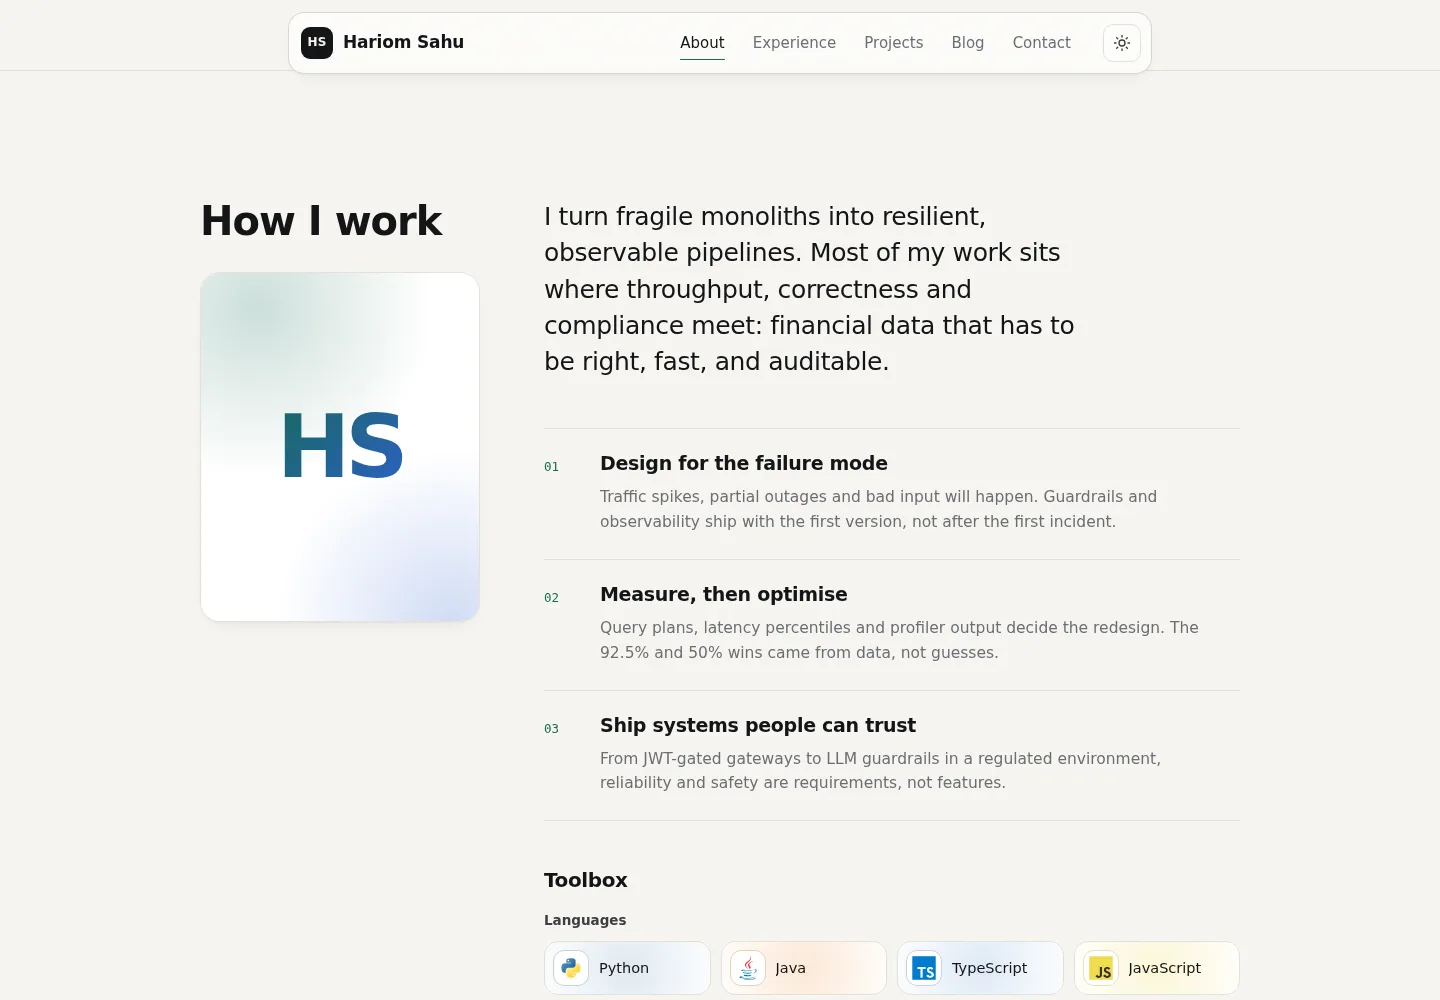
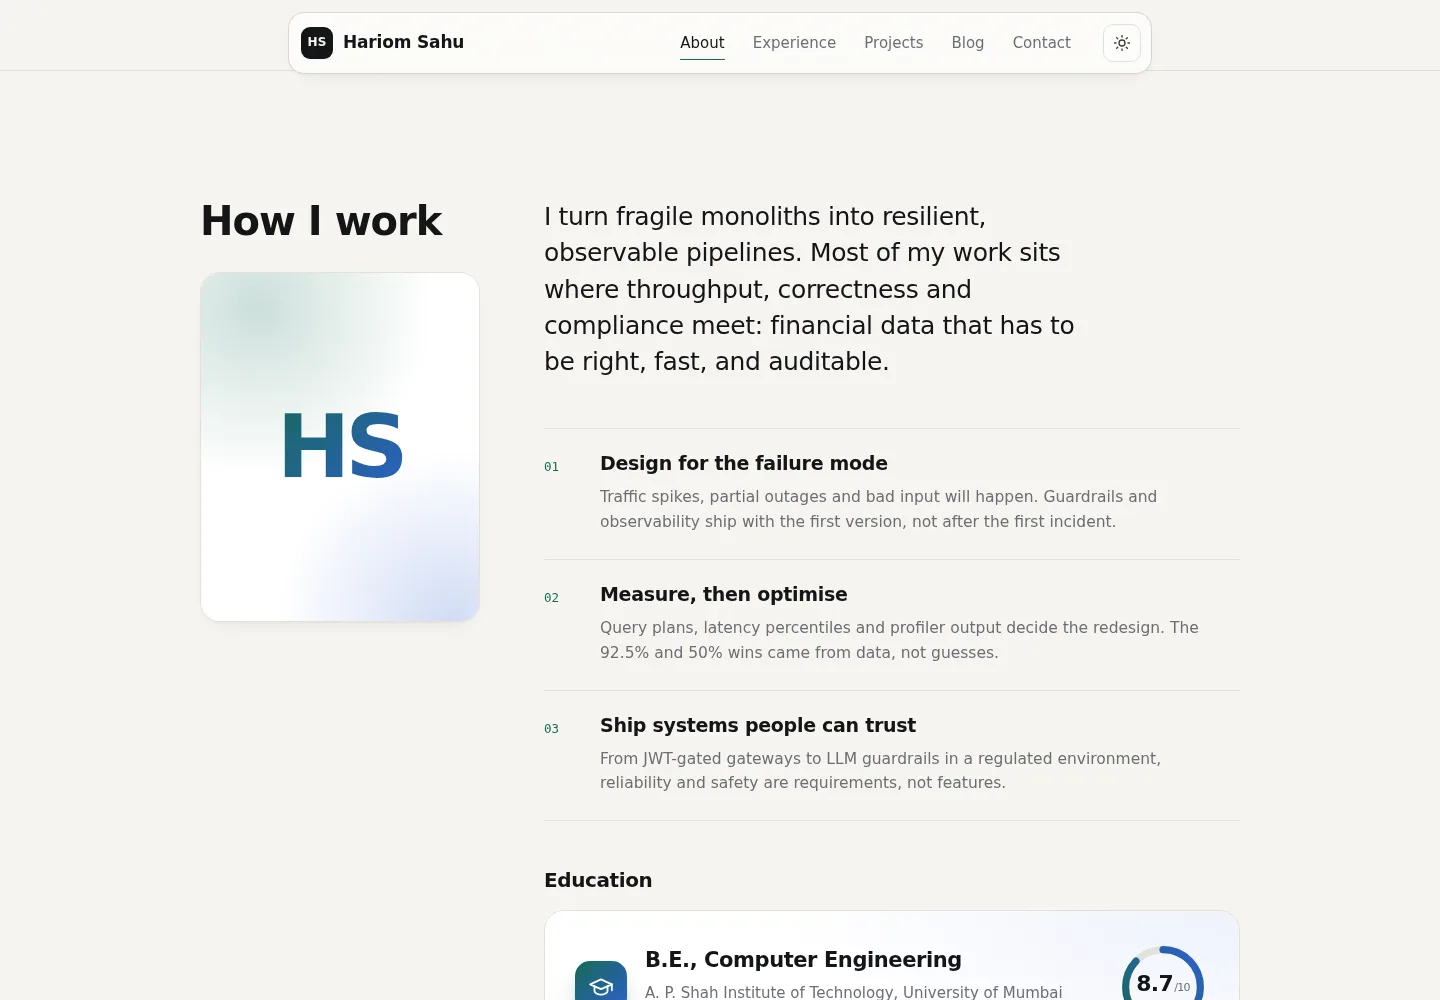
feat: animated education card with 2021-2025 timeline and CGPA ring in About

Changed region(s): [[0.375, 0.868, 0.8438, 1.0]]

diff --git a/assets/css/styles.css b/assets/css/styles.css
@@ -1201,3 +1201,149 @@ svg { width: 1em; height: 1em; fill: none; stroke: currentColor; stroke-width: 1
   .tools { grid-template-columns: repeat(2, minmax(0, 1fr)); }
 }
 .stack-title { margin-bottom: 18px; font-size: 20px; letter-spacing: -0.02em; }
+
+/* ---------- About: education ---------- */
+.edu { margin-top: 48px; }
+.edu-card {
+  position: relative;
+  padding: clamp(22px, 3vw, 30px);
+  background:
+    radial-gradient(120% 140% at 100% 0%, color-mix(in srgb, var(--accent-2) 8%, transparent), transparent 55%),
+    radial-gradient(120% 140% at 0% 100%, color-mix(in srgb, var(--accent) 8%, transparent), transparent 55%),
+    var(--surface);
+  border: 1px solid var(--line);
+  border-radius: 20px;
+  overflow: hidden;
+  transition: transform 0.4s var(--ease), box-shadow 0.4s var(--ease), border-color 0.4s var(--ease);
+}
+/* Gradient hairline border that lights up on hover */
+.edu-card::before {
+  content: "";
+  position: absolute;
+  inset: 0;
+  padding: 1px;
+  border-radius: inherit;
+  background: linear-gradient(135deg, var(--accent), var(--accent-2));
+  -webkit-mask: linear-gradient(#000 0 0) content-box, linear-gradient(#000 0 0);
+  -webkit-mask-composite: xor;
+  mask-composite: exclude;
+  opacity: 0;
+  transition: opacity 0.4s var(--ease);
+  pointer-events: none;
+}
+.edu-card:hover { transform: translateY(-3px); box-shadow: var(--shadow); }
+.edu-card:hover::before { opacity: 1; }
+
+.edu-top { display: grid; grid-template-columns: auto minmax(0, 1fr) auto; gap: 18px; align-items: center; }
+.edu-icon {
+  display: grid;
+  place-items: center;
+  width: 52px;
+  height: 52px;
+  font-size: 26px;
+  color: #fff;
+  background: linear-gradient(135deg, var(--accent), var(--accent-2));
+  border-radius: 15px;
+  box-shadow: 0 10px 22px -12px var(--accent);
+}
+.edu-icon svg { stroke: currentColor; stroke-width: 1.7; }
+.edu.is-in .edu-icon { animation: cap-toss 1s 1.9s cubic-bezier(0.3, 1.6, 0.5, 1) both; }
+@keyframes cap-toss {
+  0% { transform: translateY(0) rotate(0); }
+  40% { transform: translateY(-10px) rotate(-14deg); }
+  100% { transform: translateY(0) rotate(0); }
+}
+.edu-main h4 { margin: 0; font-size: clamp(18px, 2vw, 21px); font-weight: 600; letter-spacing: -0.02em; color: var(--ink); }
+.edu-main p { margin-top: 4px; font-size: 15px; color: var(--muted); }
+.edu-main .edu-span { font-family: var(--font-mono); font-size: 12.5px; color: var(--ink-2); }
+
+/* CGPA ring */
+.cgpa { position: relative; width: 92px; height: 92px; display: grid; place-items: center; }
+.cgpa svg { position: absolute; inset: 0; width: 100%; height: 100%; transform: rotate(-90deg); }
+.cgpa circle { fill: none; stroke-width: 5; }
+.cgpa-track { stroke: var(--line); }
+.cgpa-ring {
+  stroke-linecap: round;
+  stroke-dasharray: 163.36;
+  stroke-dashoffset: 163.36;
+  transition: stroke-dashoffset 1.6s cubic-bezier(0.2, 0.7, 0.2, 1) 0.3s;
+}
+.edu.is-in .cgpa-ring { stroke-dashoffset: 21.24; } /* 87% of the circle */
+.stop-a { stop-color: var(--accent); }
+.stop-b { stop-color: var(--accent-2); }
+.cgpa-value { position: relative; margin-top: -6px; font-size: 22px; font-weight: 700; letter-spacing: -0.03em; color: var(--ink); font-variant-numeric: tabular-nums; }
+.cgpa-value small { font-size: 11px; font-weight: 500; color: var(--muted); margin-left: 1px; }
+.cgpa-label { position: absolute; bottom: 20px; font-family: var(--font-mono); font-size: 9.5px; letter-spacing: 0.08em; color: var(--muted); }
+
+/* 2021 → 2025 timeline */
+.edu-timeline { position: relative; margin-top: 30px; padding-top: 6px; }
+.edu-track {
+  position: absolute;
+  top: 11.5px;
+  left: 7px;
+  right: 7px;
+  height: 3px;
+  border-radius: 3px;
+  background: var(--line);
+  overflow: hidden;
+}
+.edu-fill {
+  position: absolute;
+  inset: 0;
+  border-radius: inherit;
+  background: linear-gradient(90deg, var(--accent), var(--accent-2));
+  transform: scaleX(0);
+  transform-origin: left center;
+  transition: transform 1.6s cubic-bezier(0.65, 0, 0.35, 1) 0.2s;
+}
+.edu-fill::after {
+  content: "";
+  position: absolute;
+  top: 0;
+  bottom: 0;
+  width: 60px;
+  background: linear-gradient(90deg, transparent, rgba(255, 255, 255, 0.85), transparent);
+  transform: translateX(-80px);
+}
+.edu.is-in .edu-fill { transform: scaleX(1); }
+.edu.is-in .edu-fill::after { animation: glint 2.8s 2s ease-in-out infinite; }
+@keyframes glint { 0% { transform: translateX(-80px); } 60%, 100% { transform: translateX(900px); } }
+
+.edu-years { position: relative; height: 62px; }
+.edu-years li {
+  position: absolute;
+  top: 0;
+  left: calc(7px + var(--k) * (100% - 14px) / 4);
+  transform: translateX(-50%);
+  display: flex;
+  flex-direction: column;
+  align-items: center;
+  gap: 8px;
+}
+.edu-years li:first-child { left: 0; transform: none; align-items: flex-start; }
+.edu-years li:last-child { left: 100%; transform: translateX(-100%); align-items: flex-end; }
+.edu-dot {
+  width: 14px;
+  height: 14px;
+  border-radius: 50%;
+  background: var(--surface);
+  border: 2px solid var(--line-strong);
+  transform: scale(0.6);
+  transition: transform 0.4s cubic-bezier(0.3, 1.8, 0.5, 1), border-color 0.3s var(--ease), background-color 0.3s var(--ease);
+  transition-delay: calc(0.2s + var(--k) * 0.4s);
+}
+.edu.is-in .edu-dot { transform: scale(1); border-color: var(--accent); background: color-mix(in srgb, var(--accent) 18%, var(--surface)); }
+.edu.is-in li:last-child .edu-dot {
+  background: var(--accent-2);
+  border-color: var(--accent-2);
+  box-shadow: 0 0 0 5px color-mix(in srgb, var(--accent-2) 20%, transparent);
+}
+.edu-year { font-family: var(--font-mono); font-size: 12.5px; font-weight: 500; color: var(--ink-2); white-space: nowrap; }
+.edu-tag { margin-top: -5px; font-size: 11.5px; color: var(--muted); white-space: nowrap; }
+.edu-years li:last-child .edu-tag { color: var(--accent-2); font-weight: 600; }
+
+@media (max-width: 560px) {
+  .edu-top { grid-template-columns: auto minmax(0, 1fr); }
+  .cgpa { grid-column: 1 / -1; justify-self: start; width: 84px; height: 84px; }
+  .cgpa-label { bottom: 17px; }
+}

diff --git a/index.html b/index.html
@@ -97,6 +97,42 @@
             </li>
           </ol>
 
+          <div class="edu reveal" id="education">
+            <h3 class="stack-title">Education</h3>
+            <article class="edu-card">
+              <div class="edu-top">
+                <span class="edu-icon" aria-hidden="true">
+                  <svg viewBox="0 0 24 24"><path d="M2 9.5 12 5l10 4.5L12 14 2 9.5z"/><path d="M6 11.3V16c0 1.3 2.7 3 6 3s6-1.7 6-3v-4.7"/><path d="M22 9.5V15"/></svg>
+                </span>
+                <div class="edu-main">
+                  <h4>B.E., Computer Engineering</h4>
+                  <p>A. P. Shah Institute of Technology, University of Mumbai</p>
+                  <p class="edu-span">2021 — 2025</p>
+                </div>
+                <div class="cgpa" role="img" aria-label="CGPA 8.7 out of 10">
+                  <svg viewBox="0 0 64 64" aria-hidden="true">
+                    <defs><linearGradient id="cgpa-grad" x1="0" y1="0" x2="1" y2="1"><stop offset="0" class="stop-a"/><stop offset="1" class="stop-b"/></linearGradient></defs>
+                    <circle class="cgpa-track" cx="32" cy="32" r="26"/>
+                    <circle class="cgpa-ring" cx="32" cy="32" r="26" stroke="url(#cgpa-grad)"/>
+                  </svg>
+                  <span class="cgpa-value" aria-hidden="true"><span class="count" data-to="8.7" data-decimals="1">8.7</span><small>/10</small></span>
+                  <span class="cgpa-label" aria-hidden="true">CGPA</span>
+                </div>
+              </div>
+
+              <div class="edu-timeline" aria-label="Studied from 2021 to 2025">
+                <div class="edu-track"><div class="edu-fill"></div></div>
+                <ol class="edu-years">
+                <li style="--k:0"><span class="edu-dot"></span><span class="edu-year">2021</span><span class="edu-tag">Started</span></li>
+                <li style="--k:1"><span class="edu-dot"></span><span class="edu-year">2022</span></li>
+                <li style="--k:2"><span class="edu-dot"></span><span class="edu-year">2023</span></li>
+                <li style="--k:3"><span class="edu-dot"></span><span class="edu-year">2024</span></li>
+                <li style="--k:4"><span class="edu-dot"></span><span class="edu-year">2025</span><span class="edu-tag">Graduated</span></li>
+                </ol>
+              </div>
+            </article>
+          </div>
+
           <div class="stack reveal">
             <h3 class="stack-title">Toolbox</h3>
             <div class="toolbox" id="toolbox">
@@ -191,21 +227,6 @@
             </ul>
             <ul class="tags tags-sm" aria-label="Technologies">
               <li>Python</li><li>Celery</li><li>Redis</li><li>Kafka</li><li>PostgreSQL</li><li>Nginx</li><li>AWS</li>
-            </ul>
-          </article>
-          <article class="role reveal">
-            <header class="role-head">
-              <div>
-                <h3>B.E., Computer Engineering</h3>
-                <p class="org">A. P. Shah Institute of Technology, University of Mumbai</p>
-              </div>
-              <p class="when">2021 — 2025</p>
-            </header>
-            <p class="role-summary">CGPA 8.7 / 10. Foundations in systems, data structures and distributed computing.</p>
-            <ul class="bullets">
-              <li>AWS Academy Cloud Foundations (2022)</li>
-              <li>AWS Academy Machine Learning Foundations (2023)</li>
-              <li>Cisco Networking Essentials (2023)</li>
             </ul>
           </article>
         </div>

diff --git a/README.md b/README.md
@@ -72,6 +72,10 @@ My photo sits beside a short intro that types itself out as you scroll in, follo
 2. **Measure, then optimise.** Query plans, latency percentiles and profiler output decide the redesign.
 3. **Ship systems people can trust.** Reliability and safety are requirements, from JWT-gated gateways to LLM guardrails.
 
+Then an **Education** card: B.E., Computer Engineering at A. P. Shah Institute of Technology, University of Mumbai (2021 – 2025), with a timeline that draws itself from 2021 to 2025 and a ring that fills to a **CGPA of 8.7/10**.
+
+![Education card](docs/screenshots/education.webp)
+
 It closes with my **toolbox**: each technology shown with its logo, grouped into Languages, Frameworks & libraries, Data & streaming, and Infrastructure. Tiles lift and glow in the tool's brand colour on hover.
 
 ### 3. Experience
@@ -91,9 +95,6 @@ What I worked on:
 - Designed a custom **Nginx API gateway** with JWT auth and rate limiting.
 - Hardened UAT / pre-prod environments with Redis, reverse proxies and end-to-end observability.
 - Built internal automation tools adopted company-wide.
-
-**B.E., Computer Engineering, A. P. Shah Institute of Technology, University of Mumbai** (2021 – 2025, CGPA 8.7/10)
-AWS Academy Cloud Foundations · AWS Academy ML Foundations · Cisco Networking Essentials
 
 ### 4. Projects
 
